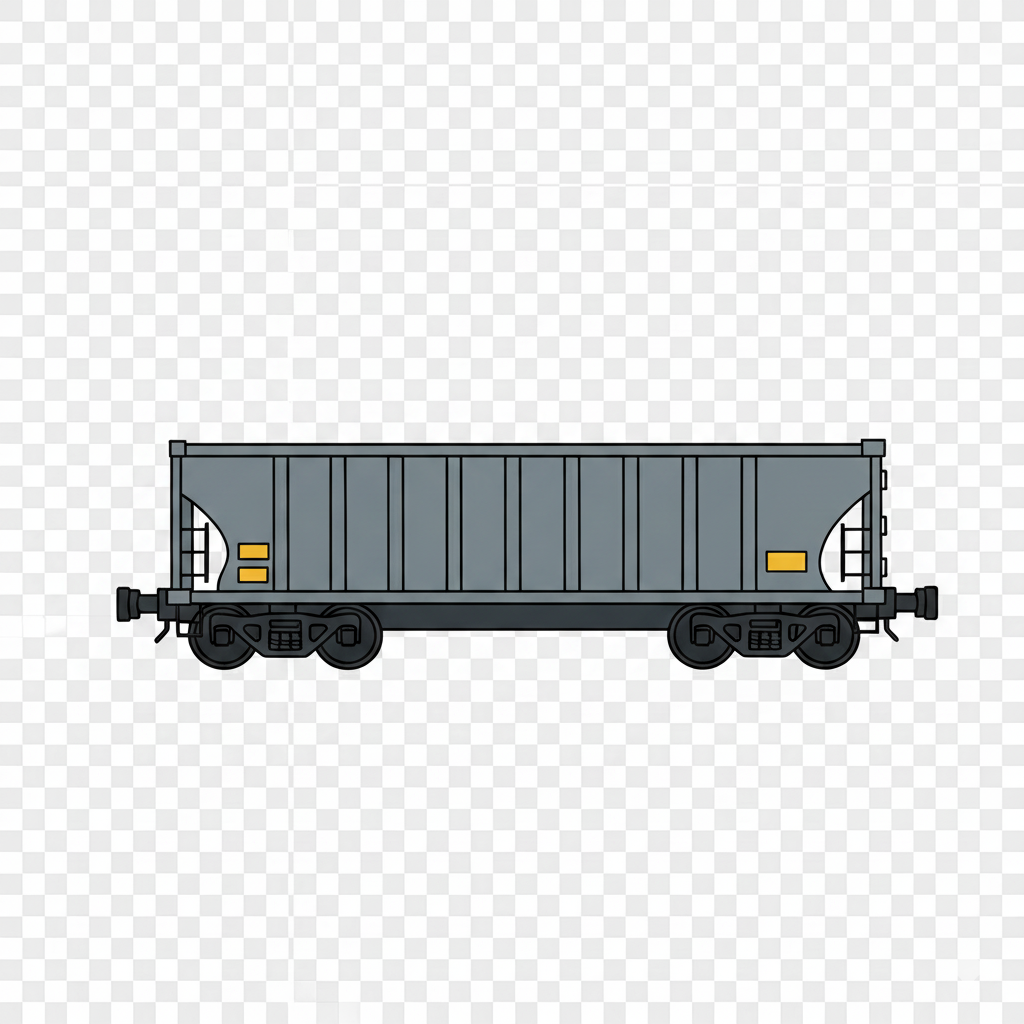
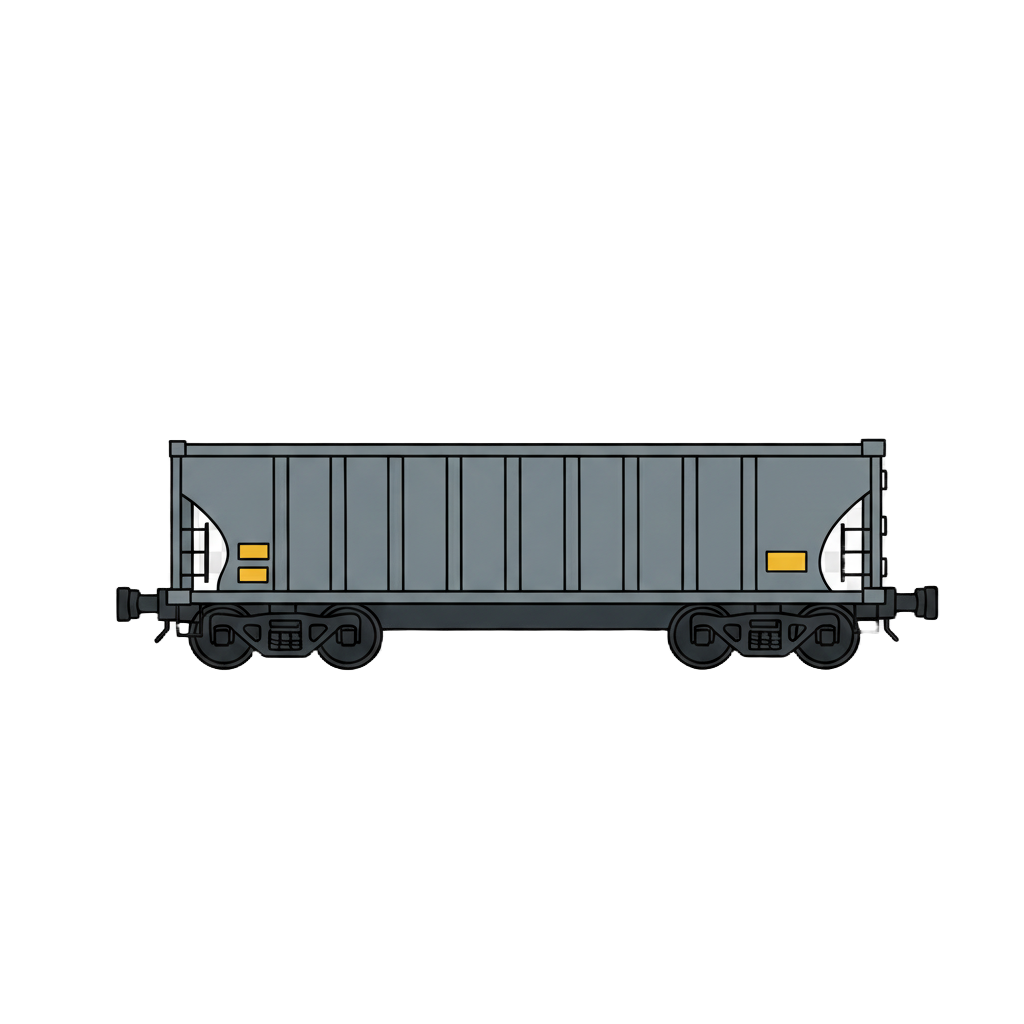
Background das imagens removidos

Changed region(s): [[0.125, 0.5938, 0.1875, 0.625], [0.8438, 0.5938, 0.875, 0.625]]

diff --git a/ThreadEmpacotador.java b/ThreadEmpacotador.java
@@ -1,46 +1,65 @@
-// ThreadEmpacotador.java
 import java.util.concurrent.Semaphore;
 import javax.swing.SwingUtilities;
+import java.util.Random; // Importe a classe Random
 
 public class ThreadEmpacotador extends Thread {
 
     private ObjetoGrafico empacotadorObj;
     private Semaphore pacotesProntos;
     private PainelDeDesenho painel;
+    private Random random; // Objeto para gerar números aleatórios
 
     private final String[] framesAnimacao = {
         "/GameAsset/robot_ready.png",
         "/GameAsset/robot_hands_down.png"
     };
 
+    // Constantes para a área de spawn
+    private static final int SPAWN_Y = 600;
+    private static final int SPAWN_X_INICIAL = 20;
+    private static final int SPAWN_X_LARGURA = 300; // Ele vai sortear um X entre 20 e 320
+
     public ThreadEmpacotador(PainelDeDesenho painel, Semaphore pacotesProntos) {
         this.painel = painel;
         this.pacotesProntos = pacotesProntos;
-        this.empacotadorObj = new ObjetoGrafico(20, 600, 150, 150, framesAnimacao);
+        this.random = new Random();
+
+        // MUDANÇA: Sorteia uma posição X aleatória dentro da área de spawn
+        int xAleatorio = SPAWN_X_INICIAL + random.nextInt(SPAWN_X_LARGURA);
+        
+        this.empacotadorObj = new ObjetoGrafico(xAleatorio, SPAWN_Y, 150, 150, framesAnimacao);
     }
     
     public ObjetoGrafico getObjetoGrafico() {
         return this.empacotadorObj;
     }
 
-    private void simularTrabalhoComAnimacao() {
+    
+    private void simularTrabalho() {
+        // O número de passos de trabalho é igual ao número de frames de animação
         int totalPassos = framesAnimacao.length;
 
+        // Itera por cada passo/frame
         for (int passo = 0; passo < totalPassos; passo++) {
+            
+            // 1. Atualiza a imagem para o frame de trabalho atual
             final int frameAtual = passo;
             SwingUtilities.invokeLater(() -> {
                 empacotadorObj.setAnimationFrame(frameAtual);
                 painel.repaint();
             });
 
+            // 2. Realiza UMA PARTE do trabalho (CPU-bound)
+            // Este laço é a "pausa" que dá tempo para vermos o frame
             double soma = 0;
-            for (int i = 0; i < 1000 / totalPassos; i++) {
+            for (int i = 0; i < 500; i++) {
                 for (int j = 0; j < 5000; j++) {
                     soma = soma + Math.sin(i) * Math.cos(j);
                 }
             }
         }
         
+        // 3. DEPOIS que todo o trabalho terminou, volta ao frame inicial
         SwingUtilities.invokeLater(() -> {
             empacotadorObj.setAnimationFrame(0); // Volta ao estado "pronto"
             painel.repaint();
@@ -51,8 +70,11 @@ public class ThreadEmpacotador extends Thread {
     public void run() {
         while (true) {
             System.out.println("Empacotador trabalhando para criar um pacote...");
-            simularTrabalhoComAnimacao();
             
+            // Chama o método de trabalho corrigido
+            simularTrabalho(); 
+            
+            // Libera o semáforo APÓS o trabalho e a animação terminarem
             pacotesProntos.release();
             System.out.println(">>> PACOTE PRONTO. Itens disponíveis: " + pacotesProntos.availablePermits());
         }
